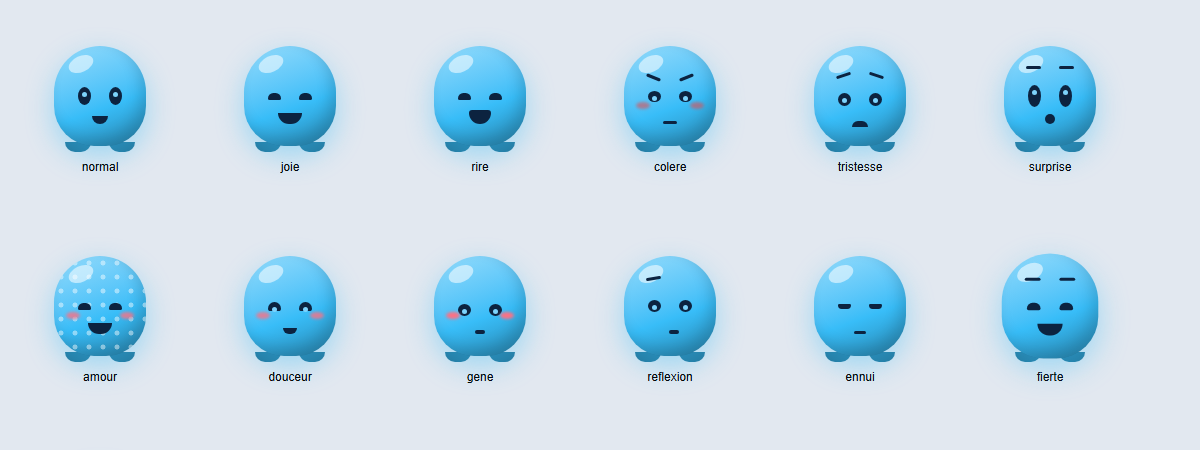
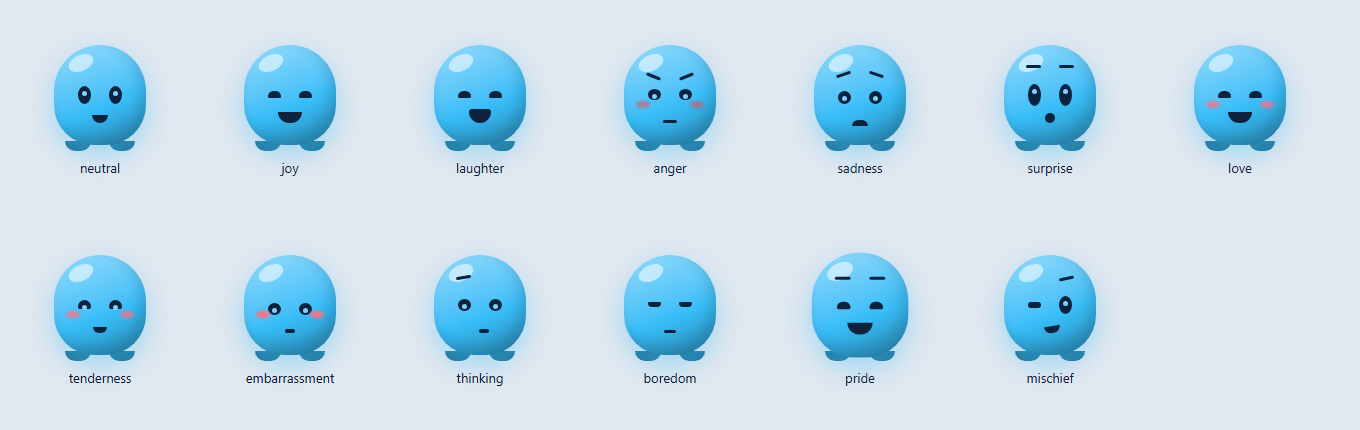
docs: Mermaid architecture diagrams; English labels on the emotions sheet
- README: the ASCII sketch becomes a Mermaid flowchart (you, egg,
  Gemini Live, prompt and memory loop, toolsets registry, kernel,
  modules, broker, Win32), rendered by GitHub.
- docs/architecture.md: a Mermaid map of the Rust modules and frontend.
- Emotions sheet: English labels, 13 faces on two rows.

diff --git a/README.md b/README.md
@@ -132,17 +132,29 @@ On first launch, open the admin panel, **Models** tab, pick the brain and enter 
 
 ## 🏗 Architecture
 
-```
-  mic ──► Gemini Live (conversation) ──► Oz's voice ──► egg (TS)
-                    │
-                    ▼
-                  tools ──► broker (Rust) ──► Win32
-                    ▲            ▲
-  initiative ───────┘   permissions
-  (signals + Gemini judge)
+```mermaid
+flowchart TB
+    you(["🗣 You"]) -- "talk, click" --> egg["🥚 Egg (TypeScript)<br/>mic, voice, bubble, emotions, moves"]
+    egg -- "mic audio" --> live["Gemini Live<br/>one session: hears, thinks, speaks"]
+    live -- "voice, emotions, moves" --> egg
+    ctx["Prompt<br/>persona, your name, date, memory, skills"] --> live
+    init["Initiative<br/>signals + Gemini judge"] --> live
+    live -- "tool calls" --> reg
+
+    subgraph rust ["Rust backend: the model proposes, the code decides"]
+        reg["Toolsets registry<br/>switched off = refused"]
+        reg --> builtin["Built-in toolsets<br/>windows, vision, body, expression, sound"]
+        reg --> kernel["Kernel and workshop<br/>files, PowerShell, tools Oz builds<br/>(your approval on the egg)"]
+        reg --> modules["Installed modules<br/>PowerShell tools + skills<br/>(code reviewed at install)"]
+        builtin --> broker{{"Broker<br/>permissions, sanctuaries"}}
+        broker --> win32["Win32<br/>windows, capture"]
+    end
+
+    live -- "exchanges" --> memory[("Memory<br/>facts, episodes")]
+    memory --> ctx
 ```
 
-```
+```text
 app/
 ├── src/egg/        the egg: window, bubble, voice, emotions, initiative, movement, tricks, access requests
 ├── src/panel/      the admin panel, one module per tab

diff --git a/docs/architecture.md b/docs/architecture.md
@@ -7,6 +7,49 @@ Deux fenêtres Tauri partagent le même backend Rust :
 
 Le frontend n'a aucune logique de sécurité. Il appelle des commandes Rust (`invoke`) et écoute des événements.
 
+```mermaid
+flowchart TB
+    subgraph front ["Frontend (TypeScript, two Tauri windows)"]
+        egg["Egg: index.html<br/>mic.ts, audio.ts, emotions.ts,<br/>motion.ts, access.ts, initiative.ts"]
+        panel["Admin panel: panel.html<br/>one module per tab"]
+    end
+
+    subgraph back ["Backend (Rust)"]
+        voice["voice.rs<br/>Gemini Live sessions"]
+        brain["brain.rs<br/>prompt, text chat"]
+        tools["tools.rs<br/>entry point, guards"]
+        reg["toolsets.rs<br/>registry"]
+        builtin["tools.rs, volume.rs, skills.rs<br/>built-in toolsets"]
+        kernel["kernel.rs<br/>files, PowerShell, workshop"]
+        modules["modules.rs<br/>installed modules"]
+        broker["broker.rs<br/>permissions"]
+        win["windows_api.rs, vision.rs, watch.rs"]
+        memory["memory.rs, skills.rs"]
+        init["initiative.rs"]
+        prefs["prefs.rs<br/>settings, %OWNER%"]
+    end
+
+    gemini(["Gemini API<br/>Live + text"])
+
+    egg -- "invoke / events" --> voice
+    panel -- invoke --> reg
+    panel -- invoke --> modules
+    voice <--> gemini
+    brain <--> gemini
+    voice -- "tool calls" --> tools
+    brain -- "tool calls" --> tools
+    tools --> reg
+    reg --> builtin
+    reg --> kernel
+    reg --> modules
+    builtin --> broker
+    broker --> win
+    brain --> memory
+    init --> voice
+    prefs -. "name, language, toolsets" .-> brain
+    prefs -. "disabled toolsets" .-> reg
+```
+
 ## Backend (`app/src-tauri/src/`)
 
 | Module | Rôle |
